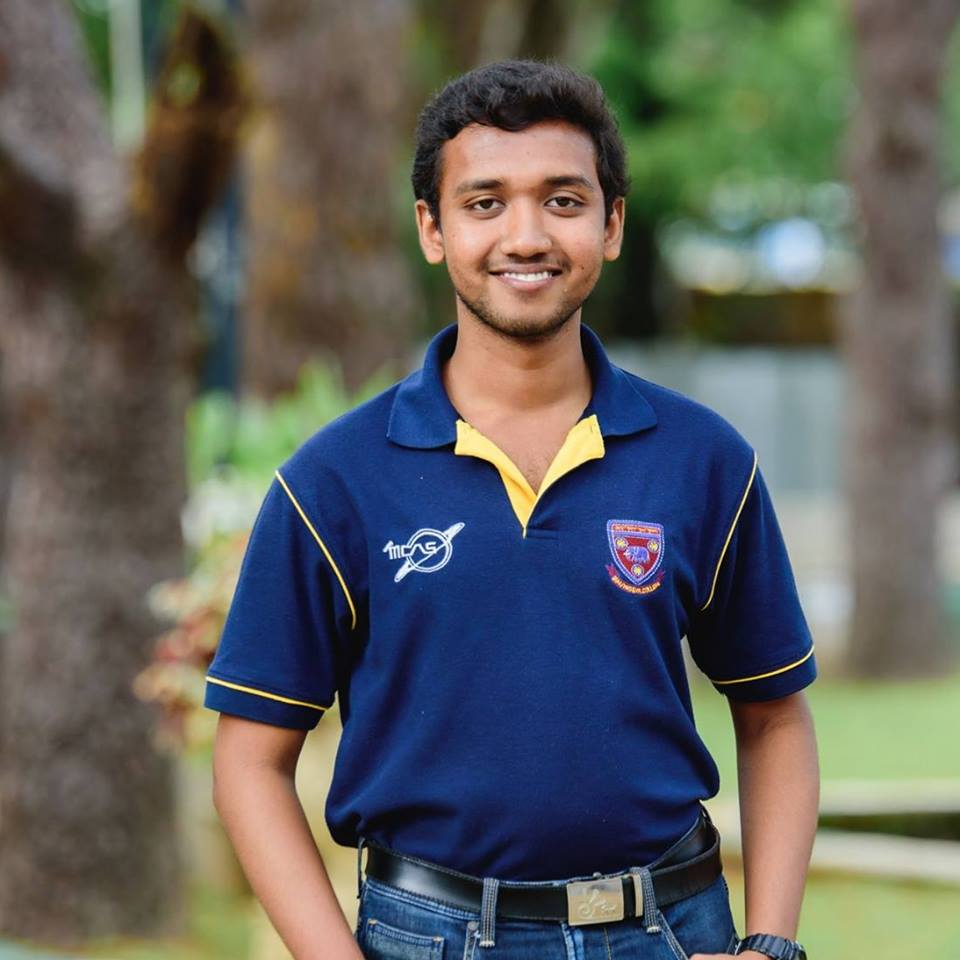
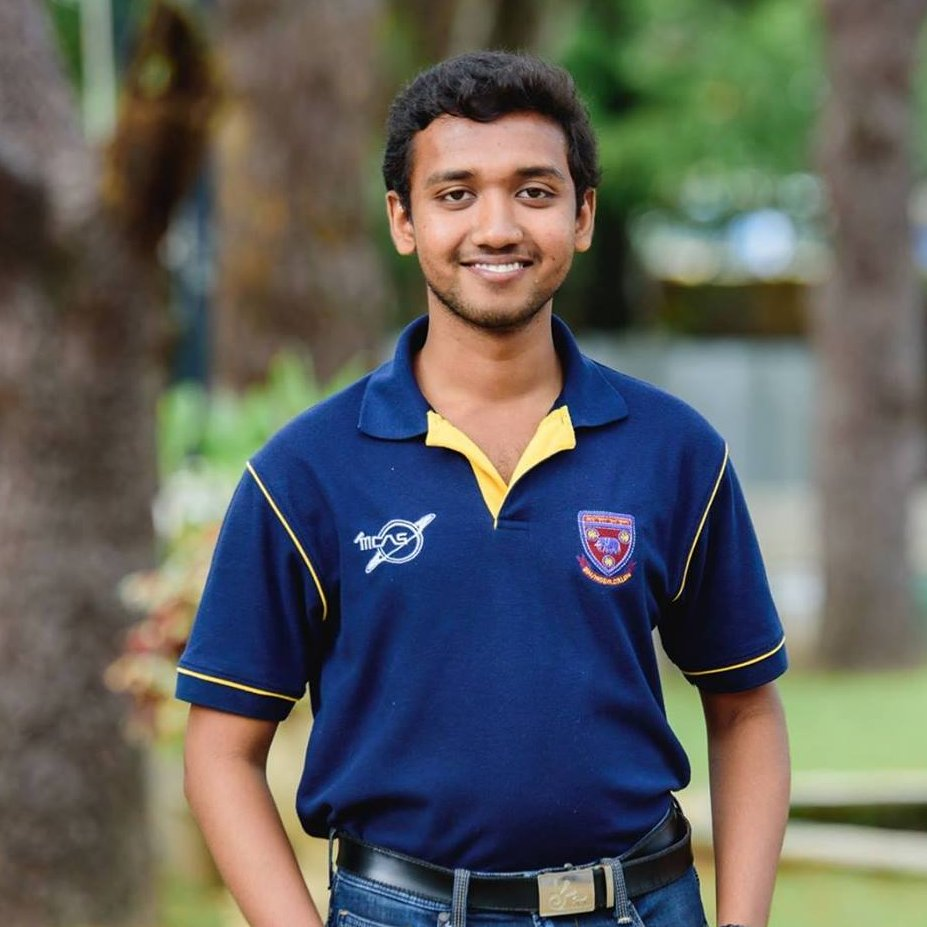
Updated images

diff --git a/ideathon.php b/ideathon.php
@@ -178,7 +178,7 @@
                         <div class="col-sm-6 col-md-4 hvr-shrink">
                             <div class="profile-card">
                                 <div class="profile-img">
-                                    <img src="img/team/gayal.jpg" alt="Team Image" height="500"/>
+                                    <img src="img/team/gayal.jpg" class="img-fluid" alt="Team Image"/>
                                 </div>
                                 <div class="profile-content">
                                     <h2 class="title">Gayal Dassanayake
@@ -190,7 +190,7 @@
                         <div class="col-sm-6 col-md-4 hvr-shrink">
                             <div class="profile-card">
                                 <div class="profile-img">
-                                    <img src="img/team/gamlath.jpeg" alt="Team Image" height="500"/>
+                                    <img src="img/team/gamlath.jpeg" class="img-fluid" alt="Team Image"/>
                                 </div>
                                 <div class="profile-content">
                                     <h2 class="title">Damika Gamlath
